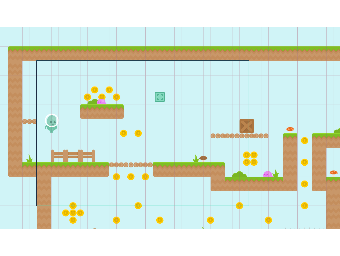
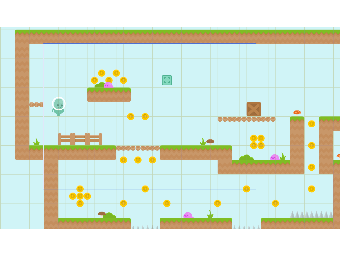
:zap: More consistent behaviour of ct.fittoscreen

diff --git a/app/ct.release/rooms.js b/app/ct.release/rooms.js
@@ -1,69 +1,79 @@
-ct.rooms = {
-    addBg(graph, depth) {
-        var canv = document.createElement('canvas'),
-            g = ct.res.graphs[graph];
-        canv.width = g.width;
-        canv.height = g.height;
-        canv.x = canv.getContext('2d');
-        canv.x.drawImage(g.atlas, g.frames[0][0], g.frames[0][1], g.width, g.height, 0, 0, g.width, g.height);
-        var pat = ct.x.createPattern(canv, 'repeat');
-        var copy = ct.types.Copy('BACKGROUND');
-        copy.pattern = pat;
-        copy.depth = depth;
-        ct.room.backgrounds.push(copy);
-        ct.stack.push(copy);
-    },
-    addTileLayer(layer) {
-        var copy = ct.types.Copy('TILELAYER');
-        copy.depth = layer.depth;
-        copy.tiles = layer.tiles;
-        ct.room.tileLayers.push(copy);
-        ct.stack.push(copy);
-    },
-    make() { // utility: not for regular use
-        for (let i = 0, li = this.bgs.length; i < li; i++) {
-            ct.rooms.addBg(this.bgs[i].graph, this.bgs[i].depth);
-        }
-        for (let i = 0, li = this.tiles.length; i < li; i++) {
-            ct.rooms.addTileLayer(this.tiles[i]);
-        }
-        for (let i = 0, li = this.objects.length; i < li; i++) {
-            ct.types.make(this.objects[i].type, this.objects[i].x, this.objects[i].y);
-        }
-    },
-    clear() {
-        ct.stack = [];
-        ct.types.list = { };
-    },
-    'switch'(room) {
-        /*%switch%*/
-        if (ct.room) {
-            ct.room.onLeave();
-            ct.rooms.onLeave.apply(ct.room);
-        }
-        ct.stack = [];
-        for (var i in ct.types.list) {
-            ct.types.list[i] = [];
-        }
-        ct.rooms.current = ct.room = ct.rooms[room];
-        ct.room.backgrounds = [];
-        ct.room.tileLayers = [];
-        ct.room.uid = 0;
-        ct.room.x = ct.room.y = ct.room.follow = ct.room.borderx = ct.room.bordery = 0;
-        ct.rooms.make.apply(ct.room);
-        ct.setAttribute('width', ct.room.width);
-        ct.setAttribute('height', ct.room.height);
-        /*@pixelatedrender@*/
-        ct.room.onCreate();
-        ct.rooms.onCreate.apply(ct.room);
-    },
-    onCreate() {
-        /*%roomoncreate%*/
-    },
-    onLeave() {
-        /*%roomonleave%*/
-    },
-    starting: '@startroom@'
-};
+(function () {
+    var nextRoom;
+    ct.rooms = {
+        addBg(graph, depth) {
+            var canv = document.createElement('canvas'),
+                g = ct.res.graphs[graph];
+            canv.width = g.width;
+            canv.height = g.height;
+            canv.x = canv.getContext('2d');
+            canv.x.drawImage(g.atlas, g.frames[0][0], g.frames[0][1], g.width, g.height, 0, 0, g.width, g.height);
+            var pat = ct.x.createPattern(canv, 'repeat');
+            var copy = ct.types.Copy('BACKGROUND');
+            copy.pattern = pat;
+            copy.depth = depth;
+            ct.room.backgrounds.push(copy);
+            ct.stack.push(copy);
+        },
+        addTileLayer(layer) {
+            var copy = ct.types.Copy('TILELAYER');
+            copy.depth = layer.depth;
+            copy.tiles = layer.tiles;
+            ct.room.tileLayers.push(copy);
+            ct.stack.push(copy);
+        },
+        make() { // utility: not for regular use
+            for (let i = 0, li = this.bgs.length; i < li; i++) {
+                ct.rooms.addBg(this.bgs[i].graph, this.bgs[i].depth);
+            }
+            for (let i = 0, li = this.tiles.length; i < li; i++) {
+                ct.rooms.addTileLayer(this.tiles[i]);
+            }
+            for (let i = 0, li = this.objects.length; i < li; i++) {
+                ct.types.make(this.objects[i].type, this.objects[i].x, this.objects[i].y);
+            }
+        },
+        clear() {
+            ct.stack = [];
+            ct.types.list = { };
+        },
+        'switch'(room) {
+            nextRoom = room;
+            ct.rooms.switching = true;
+        },
+        switching: false,
+        forceSwitch(room) {
+            room = room || nextRoom;
+            if (ct.room) {
+                ct.room.onLeave();
+                ct.rooms.onLeave.apply(ct.room);
+            }
+            ct.stack = [];
+            for (var i in ct.types.list) {
+                ct.types.list[i] = [];
+            }
+            ct.rooms.current = ct.room = ct.rooms[room];
+            ct.room.backgrounds = [];
+            ct.room.tileLayers = [];
+            ct.room.uid = 0;
+            ct.room.x = ct.room.y = ct.room.follow = ct.room.borderx = ct.room.bordery = 0;
+            ct.rooms.make.apply(ct.room);
+            ct.setAttribute('width', ct.room.width);
+            ct.setAttribute('height', ct.room.height);
+            /*@pixelatedrender@*/
+            ct.room.onCreate();
+            ct.rooms.onCreate.apply(ct.room);
+            /*%switch%*/
+            ct.rooms.switching = false;
+        },
+        onCreate() {
+            /*%roomoncreate%*/
+        },
+        onLeave() {
+            /*%roomonleave%*/
+        },
+        starting: '@startroom@'
+    };
+})();
 
 /*@rooms@*/

diff --git a/app/ct.release/main.js b/app/ct.release/main.js
@@ -148,10 +148,9 @@ ct.loop = function() {
             ct.rooms.afterDraw = function () {
                 /*%afterroomdraw%*/
             };
-            ct.rooms.switch(ct.rooms.starting);
+            ct.rooms.forceSwitch(ct.rooms.starting);
             ct.loop = function() {
                 for (let i = 0, li = ct.stack.length; i < li; i++) {
-                    
                     ct.types.beforeStep.apply(ct.stack[i]);
                     
                     ct.stack[i].xprev = ct.stack[i].x;
@@ -172,13 +171,6 @@ ct.loop = function() {
                             ct.types.list[i].splice(k, 1);
                             k--; lk--;
                         }
-                    }
-                }
-                // bgs
-                for (let i in ct.room.backgrounds) {
-                    if (ct.room.backgrounds[i].kill) {
-                        ct.room.backgrounds.splice(i, 1);
-                        i--;
                     }
                 }
                 // copies
@@ -248,6 +240,9 @@ ct.loop = function() {
                 ct.mouse.xprev = ct.mouse.x;
                 ct.mouse.yprev = ct.mouse.y;
                 ct.main.fpstick++;
+                if (ct.rooms.switching) {
+                    ct.rooms.forceSwitch();
+                }
             };
             ct.mouse.setupListeners();
         }

diff --git a/app/ct.libs/fittoscreen/index.js b/app/ct.libs/fittoscreen/index.js
@@ -23,20 +23,22 @@
             } else {
                 room = exactRoom || ct.rooms.current;
             }
+            if (!room) {
+                return;
+            }
             oldWidth = room.width;
             oldHeight = room.height;
             ct.width = room.width = width;
             ct.height = room.height = height;
-            if (domResize) {
+            if (doManageViewport) {
                 manageViewport(room);
             }
         }
     };
     var manageViewport = function (room) {
-        if (doManageViewport) {
-            room.x -= (room.width - oldWidth) / 2;
-            room.y -= (room.height - oldHeight) / 2;
-        }
+        room = room || ct.room;
+        room.x -= (room.width - oldWidth) / 2;
+        room.y -= (room.height - oldHeight) / 2;
     };
     var queuedFullscreen = function () {
         toggleFullscreen();

diff --git a/app/ct.libs/fittoscreen/injects/roomonleave.js b/app/ct.libs/fittoscreen/injects/roomonleave.js
@@ -1,0 +1,4 @@
+if (ct.fittoscreen.savedRoomWidth) {
+    ct.room.width = ct.fittoscreen.savedRoomWidth;
+    ct.room.height = ct.fittoscreen.savedRoomHeight;
+}

diff --git a/app/ct.libs/fittoscreen/injects/switch.js b/app/ct.libs/fittoscreen/injects/switch.js
@@ -1,1 +1,3 @@
+ct.fittoscreen.savedRoomWidth = ct.rooms[room].width;
+ct.fittoscreen.savedRoomHeight = ct.rooms[room].height;
 ct.fittoscreen(ct.rooms[room]);
